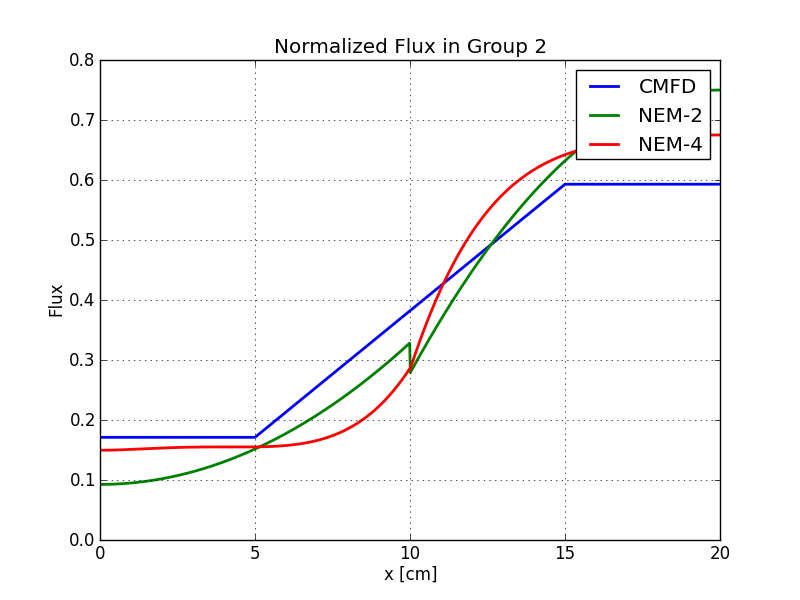
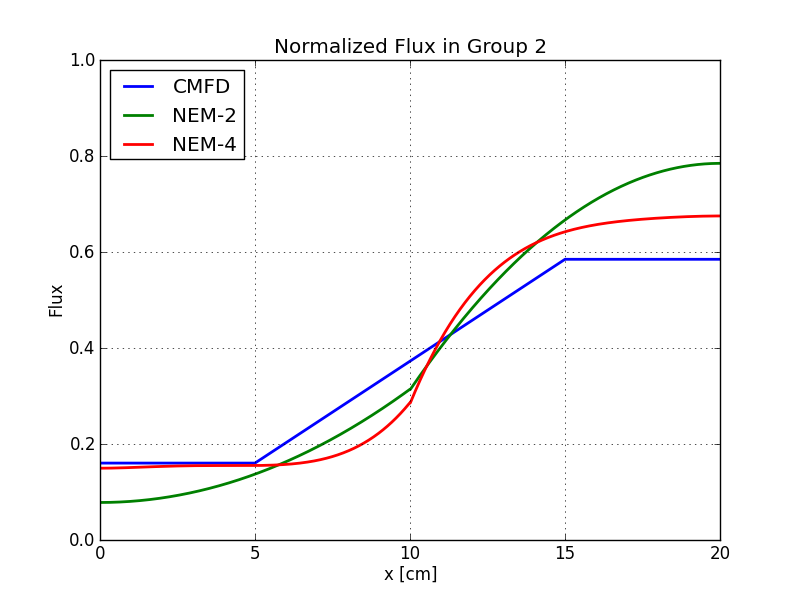
Fixed bugs in the plotting routines

diff --git a/solver.py b/solver.py
@@ -30,8 +30,11 @@ class Solver:
 
         # Initialize arrays for fluxes (both energy groups) for each method
         self.cmfd_phi = np.ones(4)
+        self.cmfd_phi_final = np.ones((2,4))
         self.nem4_phi = np.ones((2, self.num_pts))
+        self.nem4_phi_final = np.ones((2, self.num_pts))
         self.nem2_phi = np.ones((2, self.num_pts))
+        self.nem2_phi_final = np.ones((2, self.num_pts))
 
         # Initialize arrays for NEM 
         self.nem4_a = np.zeros(16)
@@ -61,13 +64,13 @@ class Solver:
 
             # Solve for the new flux using an Ax=b solve
             phi_new = scipy.linalg.solve(M, (1./keff)*np.dot(F,phi))
-	
+
             # Update keff
             source_new = sum(np.dot(F,phi_new))
             source_old = sum(np.dot(F,phi))
-    
+
             keff_new = source_new / source_old * keff
-            
+
             # Normalize new flux and set it to be the old flux
             phi = phi_new / scipy.linalg.norm(phi_new) 
             keff = keff_new
@@ -75,13 +78,13 @@ class Solver:
             # Compute residuals
             res = math.sqrt(scipy.linalg.norm(source_old - source_new) / M.size)
 
-            print ("CMFD: i=%d\tres=%1.5E\t\tkeff=%1.15f" % (i, res, keff))
+            print ("CMFD: i=%d\tres=%1.5E\t\tkeff=%1.15f" % (i+1, res, keff))
 
             # Check convergence
             if res < tol:
-                print ("CMFD converged in %d iters with res=%1E"% (i, res))
+                print ("CMFD converged in %d iters with res=%1E"% (i+1, res))
                 self.cmfd_keff = keff
-                self.cmfd_phi = phi
+                self.cmfd_phi = np.copy(phi)
                 break
 
 
@@ -256,11 +259,40 @@ class Solver:
 
         return curr / self.matricizer.getDeltaX()
 
+
+    def generateCMFDFlux(self, num_pts=1000):
+
+        self.cmfd_phi_final = np.zeros((2,4))
+        self.cmfd_phi_final[0, 0] = self.cmfd_phi[0]      # fuel group 1
+        self.cmfd_phi_final[0, 1] = self.cmfd_phi[0]      # fuel group 1
+        self.cmfd_phi_final[1, 0] = self.cmfd_phi[1]      # fuel group 2
+        self.cmfd_phi_final[1, 1] = self.cmfd_phi[1]      # fuel group 2
+        self.cmfd_phi_final[0, 2] = self.cmfd_phi[2]      # coolant group 1
+        self.cmfd_phi_final[0, 3] = self.cmfd_phi[2]      # coolant group 1
+        self.cmfd_phi_final[1, 2] = self.cmfd_phi[3]      # coolant group 2
+        self.cmfd_phi_final[1, 3] = self.cmfd_phi[3]      # coolant group 2
+
     
-    def generateNEM4Flux(self, num_pts=100):
+    def generateNEM4Flux(self, num_pts=1000):
+
+        xi = np.linspace(0,1,500)
+
+        for group in [1,2]:
+            for region in [0,1]:
+                for i in range(500):
+                    self.nem4_phi_final[group-1, i+region*500] = \
+                                          self.getNEM4Flux(group, xi[i], region)
 
 
-    def generateNEM2Flux(self, num_pts=1000
+    def generateNEM2Flux(self, num_pts=1000):
+
+        xi = np.linspace(0,1,500)
+
+        for group in [1,2]:
+            for region in [0,1]:
+                for i in range(500):
+                    self.nem2_phi_final[group-1, i+region*500] = \
+                                          self.getNEM2Flux(group, xi[i], region)
 
 
     ############################################################################
@@ -269,20 +301,11 @@ class Solver:
 
     def plotCMFDFlux(self):
 
-        phi = np.zeros((2,4))
-        phi[0, 0] = self.cmfd_phi[0]      # fuel group 1
-        phi[0, 1] = self.cmfd_phi[0]      # fuel group 1
-        phi[1, 0] = self.cmfd_phi[1]      # fuel group 2
-        phi[1, 1] = self.cmfd_phi[1]      # fuel group 2
-        phi[0, 2] = self.cmfd_phi[2]      # coolant group 1
-        phi[0, 3] = self.cmfd_phi[2]      # coolant group 1
-        phi[1, 2] = self.cmfd_phi[3]      # coolant group 2
-        phi[1, 3] = self.cmfd_phi[3]      # coolant group 2
-
         fig = plt.figure()
-        plt.plot(self.cmfd_x, phi[0, :], linewidth=2)
-        plt.plot(self.cmfd_x, phi[1, :], linewidth=2)
+        plt.plot(self.cmfd_x, self.cmfd_phi_final[0, :], linewidth=2)
+        plt.plot(self.cmfd_x, self.cmfd_phi_final[1, :], linewidth=2)
         plt.title('Normalized CMFD Flux')
+        plt.ylim([0.,1.])
         plt.xlabel('x [cm]')
         plt.ylabel('Flux')
         plt.legend(['Group 1', 'Group 2'])
@@ -292,14 +315,11 @@ class Solver:
     def plotNEM4Flux(self):
         
         fig = plt.figure()
-        for group in [1,2]:
-            phi = []
-            for region in [0,1]:
-                for xi in np.linspace(0,1,500):
-                    phi.append(self.getNEM4Flux(group, xi, region))
-                 
-            plt.plot(self.nem_x, phi, linewidth=2)
+
+        plt.plot(self.nem_x, self.nem4_phi_final[0,:], linewidth=2)
+        plt.plot(self.nem_x, self.nem4_phi_final[1,:], linewidth=2)
             
+        plt.ylim([0.,1.])
         plt.xlabel('x [cm]')
         plt.ylabel('Flux')
         plt.title('Normalized NEM 4th Order Flux')
@@ -312,14 +332,10 @@ class Solver:
 
         fig = plt.figure()
 
-        for group in [1,2]:
-            phi = []
-            for region in [0,1]:
-                for xi in np.linspace(0,1,500):
-                    phi.append(self.getNEM2Flux(group, xi, region))
+        plt.plot(self.nem_x, self.nem2_phi_final[0,:], linewidth=2)
+        plt.plot(self.nem_x, self.nem2_phi_final[1,:], linewidth=2)
 
-            plt.plot(self.nem_x, phi, linewidth=2)
-            
+        plt.ylim([0.,1.])
         plt.xlabel('x [cm]')
         plt.ylabel('Flux')
         plt.title('Normalized NEM 2nd Order Flux')
@@ -331,40 +347,17 @@ class Solver:
 
         fig = plt.figure()
 
-        # CMFD Flux
-        phi = np.zeros((4))
-        if group == 1:
-            phi[0] = self.cmfd_phi[0]     # fuel group 1
-            phi[1] = self.cmfd_phi[0]     # fuel group 1
-            phi[2] = self.cmfd_phi[2]     # coolant group 1
-            phi[3] = self.cmfd_phi[2]     # coolant group 1
-        else:
-            phi[0] = self.cmfd_phi[1]     # fuel group 2
-            phi[1] = self.cmfd_phi[1]     # fuel group 2
-            phi[2] = self.cmfd_phi[3]     # coolant group 2
-            phi[3] = self.cmfd_phi[3]     # coolant group 2
+        plt.plot(self.cmfd_x, self.cmfd_phi_final[group-1,:], linewidth=2)
+        plt.plot(self.nem_x, self.nem2_phi_final[group-1,:], linewidth=2)
+        plt.plot(self.nem_x, self.nem4_phi_final[group-1,:], linewidth=2)
 
-        plt.plot(self.cmfd_x, phi, linewidth=2)
-
-        # NEM 2nd order flux
-        phi = []
-        for region in [0,1]:
-            for xi in np.linspace(0,1,500):
-                phi.append(self.getNEM2Flux(group, xi, region))
-
-        plt.plot(self.nem_x, phi, linewidth=2)
-
-        # NEM 4th order flux
-        phi = []
-        for region in [0,1]:
-            for xi in np.linspace(0,1,500):
-                phi.append(self.getNEM4Flux(group, xi, region))
-
-        plt.plot(self.nem_x, phi, linewidth=2)
-            
+        plt.ylim([0.,1.])
         plt.xlabel('x [cm]')
         plt.ylabel('Flux')
         plt.title('Normalized Flux in Group ' + str(group))
-        plt.legend(['CMFD', 'NEM-2', 'NEM-4'])
+        if group == 1:
+            plt.legend(['CMFD', 'NEM-2', 'NEM-4'], loc=1)
+        else:
+            plt.legend(['CMFD', 'NEM-2', 'NEM-4'], loc=2)
         plt.grid()
         plt.savefig('group-' + str(group) + '-fluxes.png')

diff --git a/pset9.py b/pset9.py
@@ -17,12 +17,15 @@ matricizer.initializeNEM2ndOrderCoeffMatrix()
 #matricizer.spyNEM2ndOrderCoeffMatrix()
 
 solver.solveCMFD()
+solver.generateCMFDFlux()
 solver.plotCMFDFlux()
 
 solver.solveNEM2()
+solver.generateNEM2Flux()
 solver.plotNEM2Flux()
 
 solver.solveNEM4()
+solver.generateNEM4Flux()
 solver.plotNEM4Flux()
 
 solver.plotAllFluxes(1)
